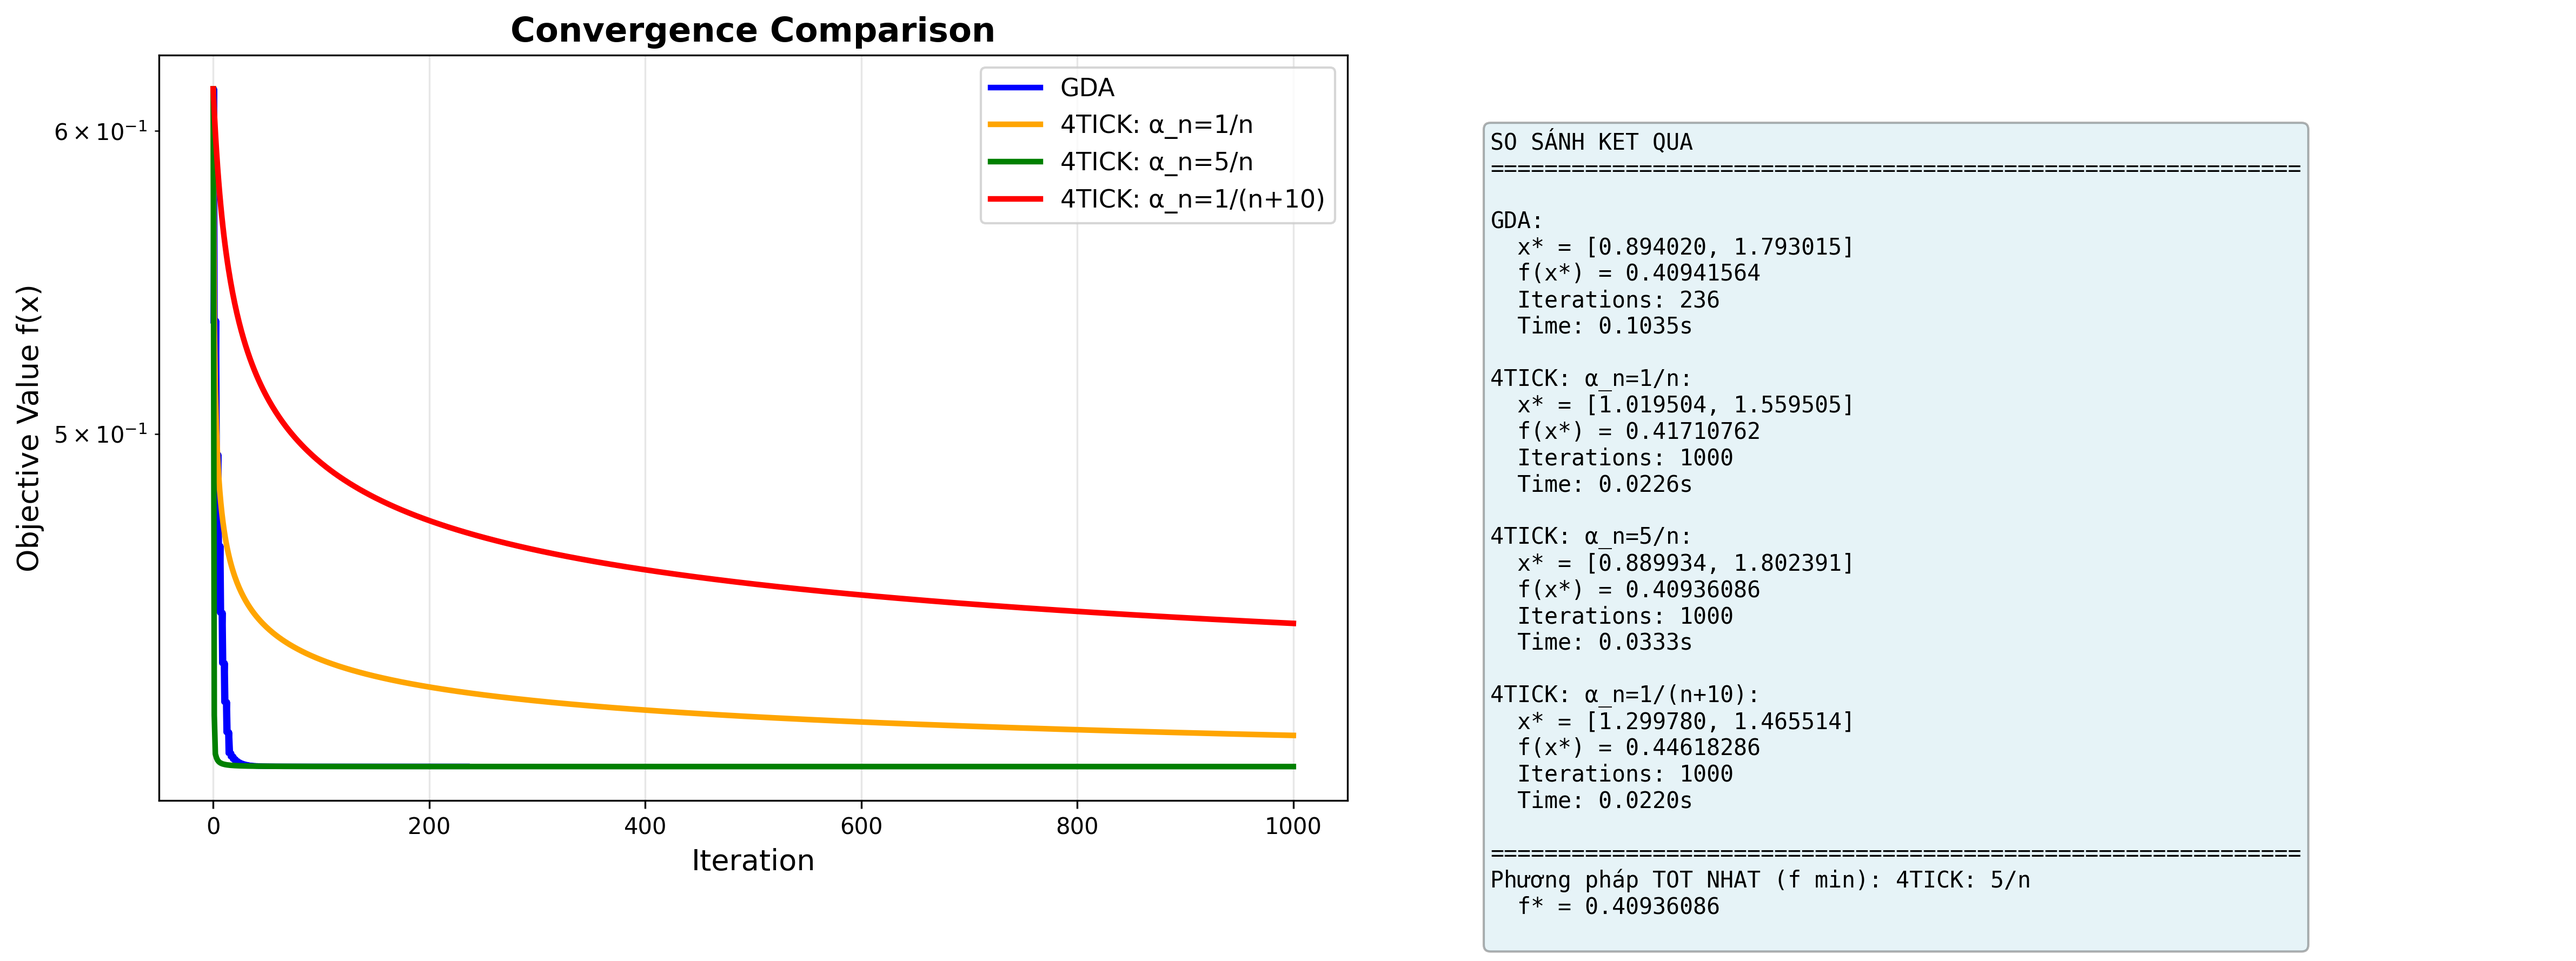
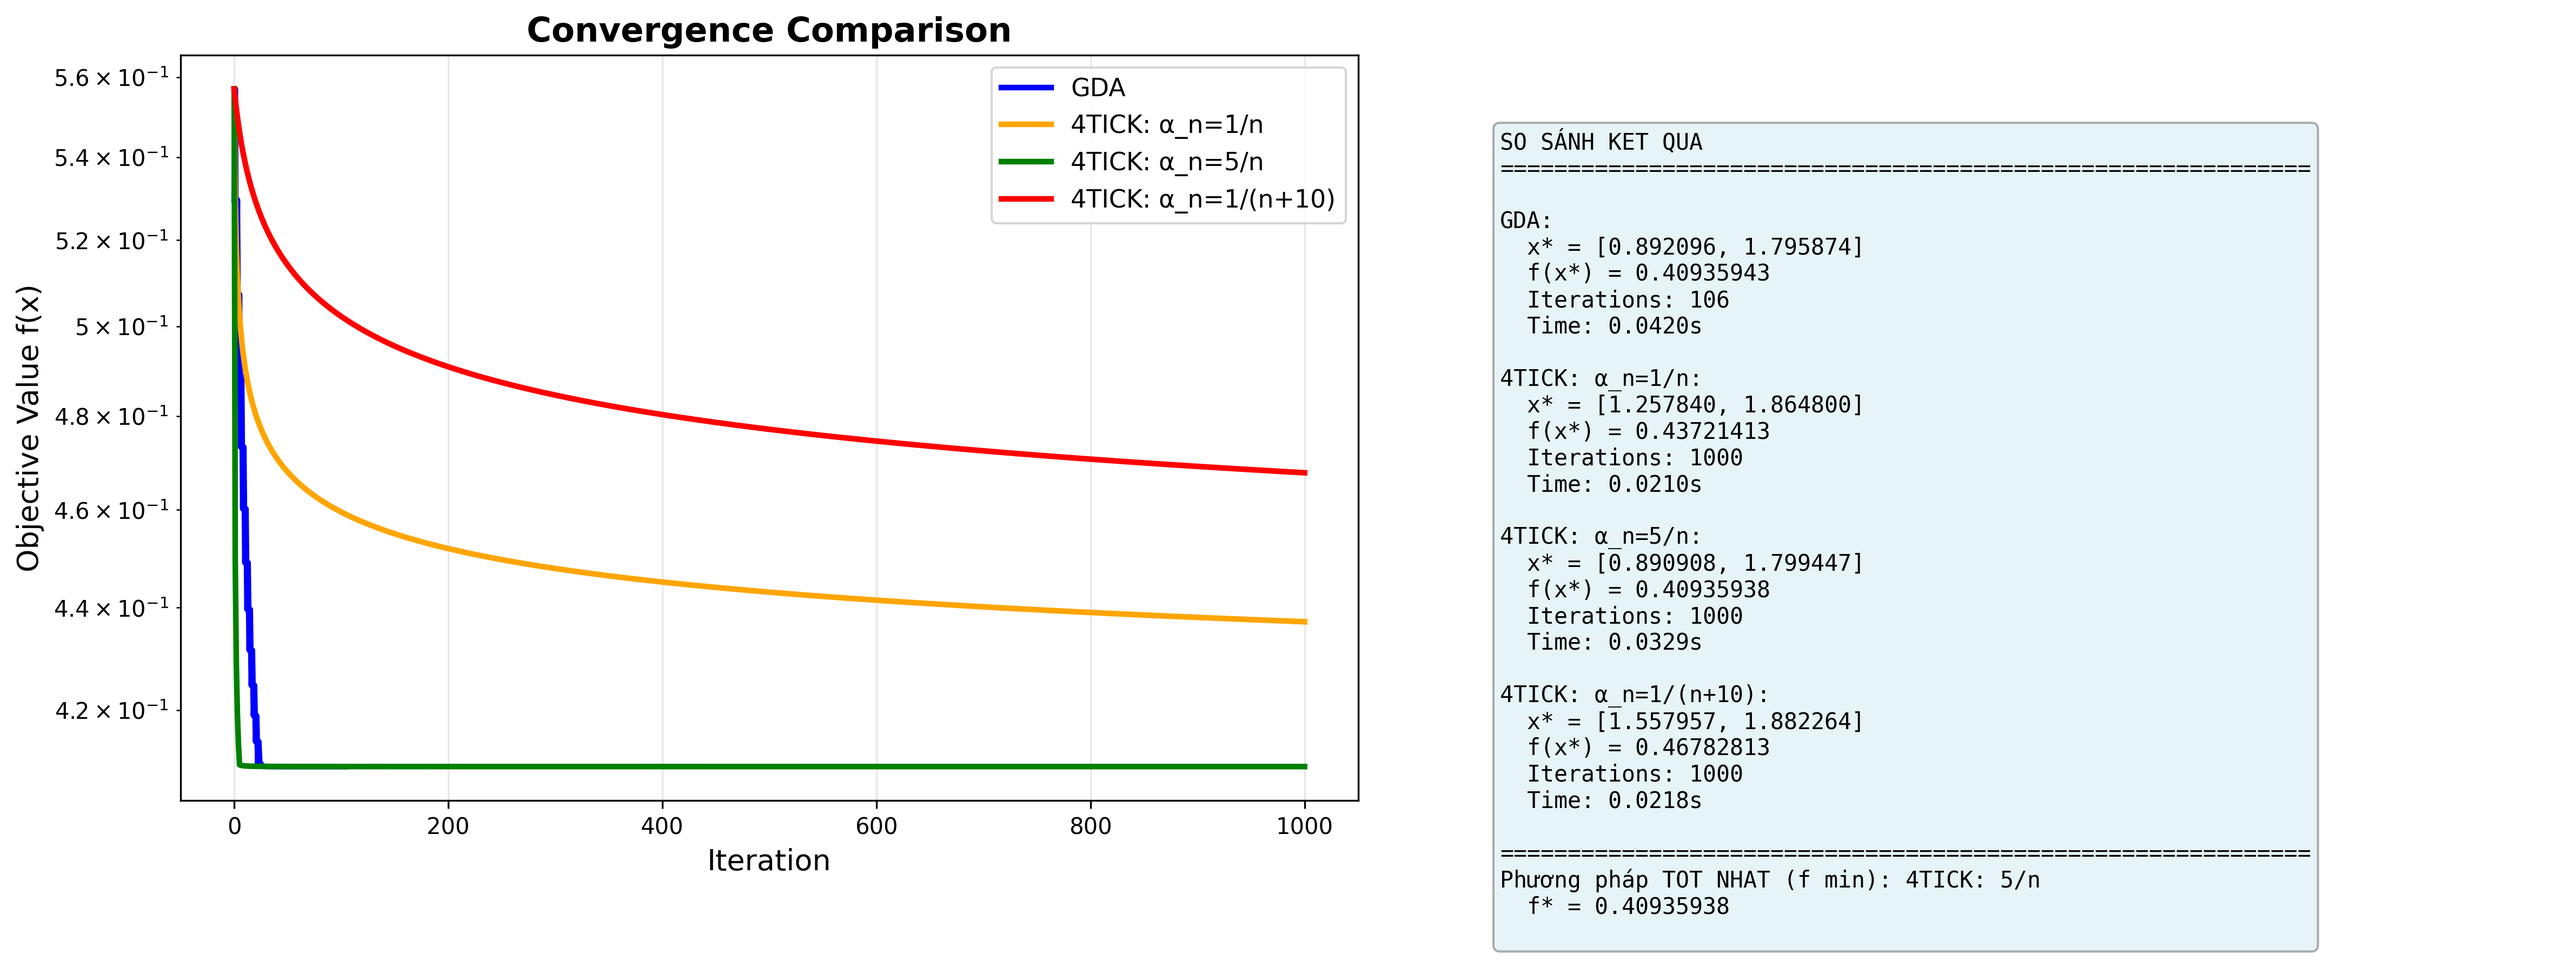
fix ex1

diff --git a/algorithms/4TICK/experiments/example1/compare_4tick_gda.py b/algorithms/4TICK/experiments/example1/compare_4tick_gda.py
@@ -9,6 +9,7 @@ subject to x ∈ C
 Với C = {x = (x1, x2)^T ∈ R² | x1² + 2x1x2 ≥ 4; x1, x2 ≥ 0}
 """
 
+from random import random
 import numpy as np
 import matplotlib.pyplot as plt
 import time
@@ -224,8 +225,8 @@ def run_gda_method(problem: Problem, x0: np.ndarray, max_iter: int = 1000):
         step_size=1.0,
         sigma=0.1,
         kappa=0.5,
-        max_iter=max_iter,
-        tol=1e-8  # Tol phù hợp để dừng sớm khi hội tụ
+        max_iter=1000,
+        tol=1e-5  # Tol phù hợp để dừng sớm khi hội tụ
     )
     
     elapsed_time = time.time() - start_time
@@ -309,7 +310,8 @@ def main():
     print("="*70)
     
     problem = Problem()
-    x0 = np.array([2.0, 1.0])
+    np.random.seed(36)  # Seed cố định để tái hiện kết quả
+    x0 = np.random.uniform(0, 3, size=2)
     
     print(f"\nBài toán:")
     print(f"  minimize f(x) = (x₁² + x₂² + 3) / (1 + 2x₁ + 8x₂)")
